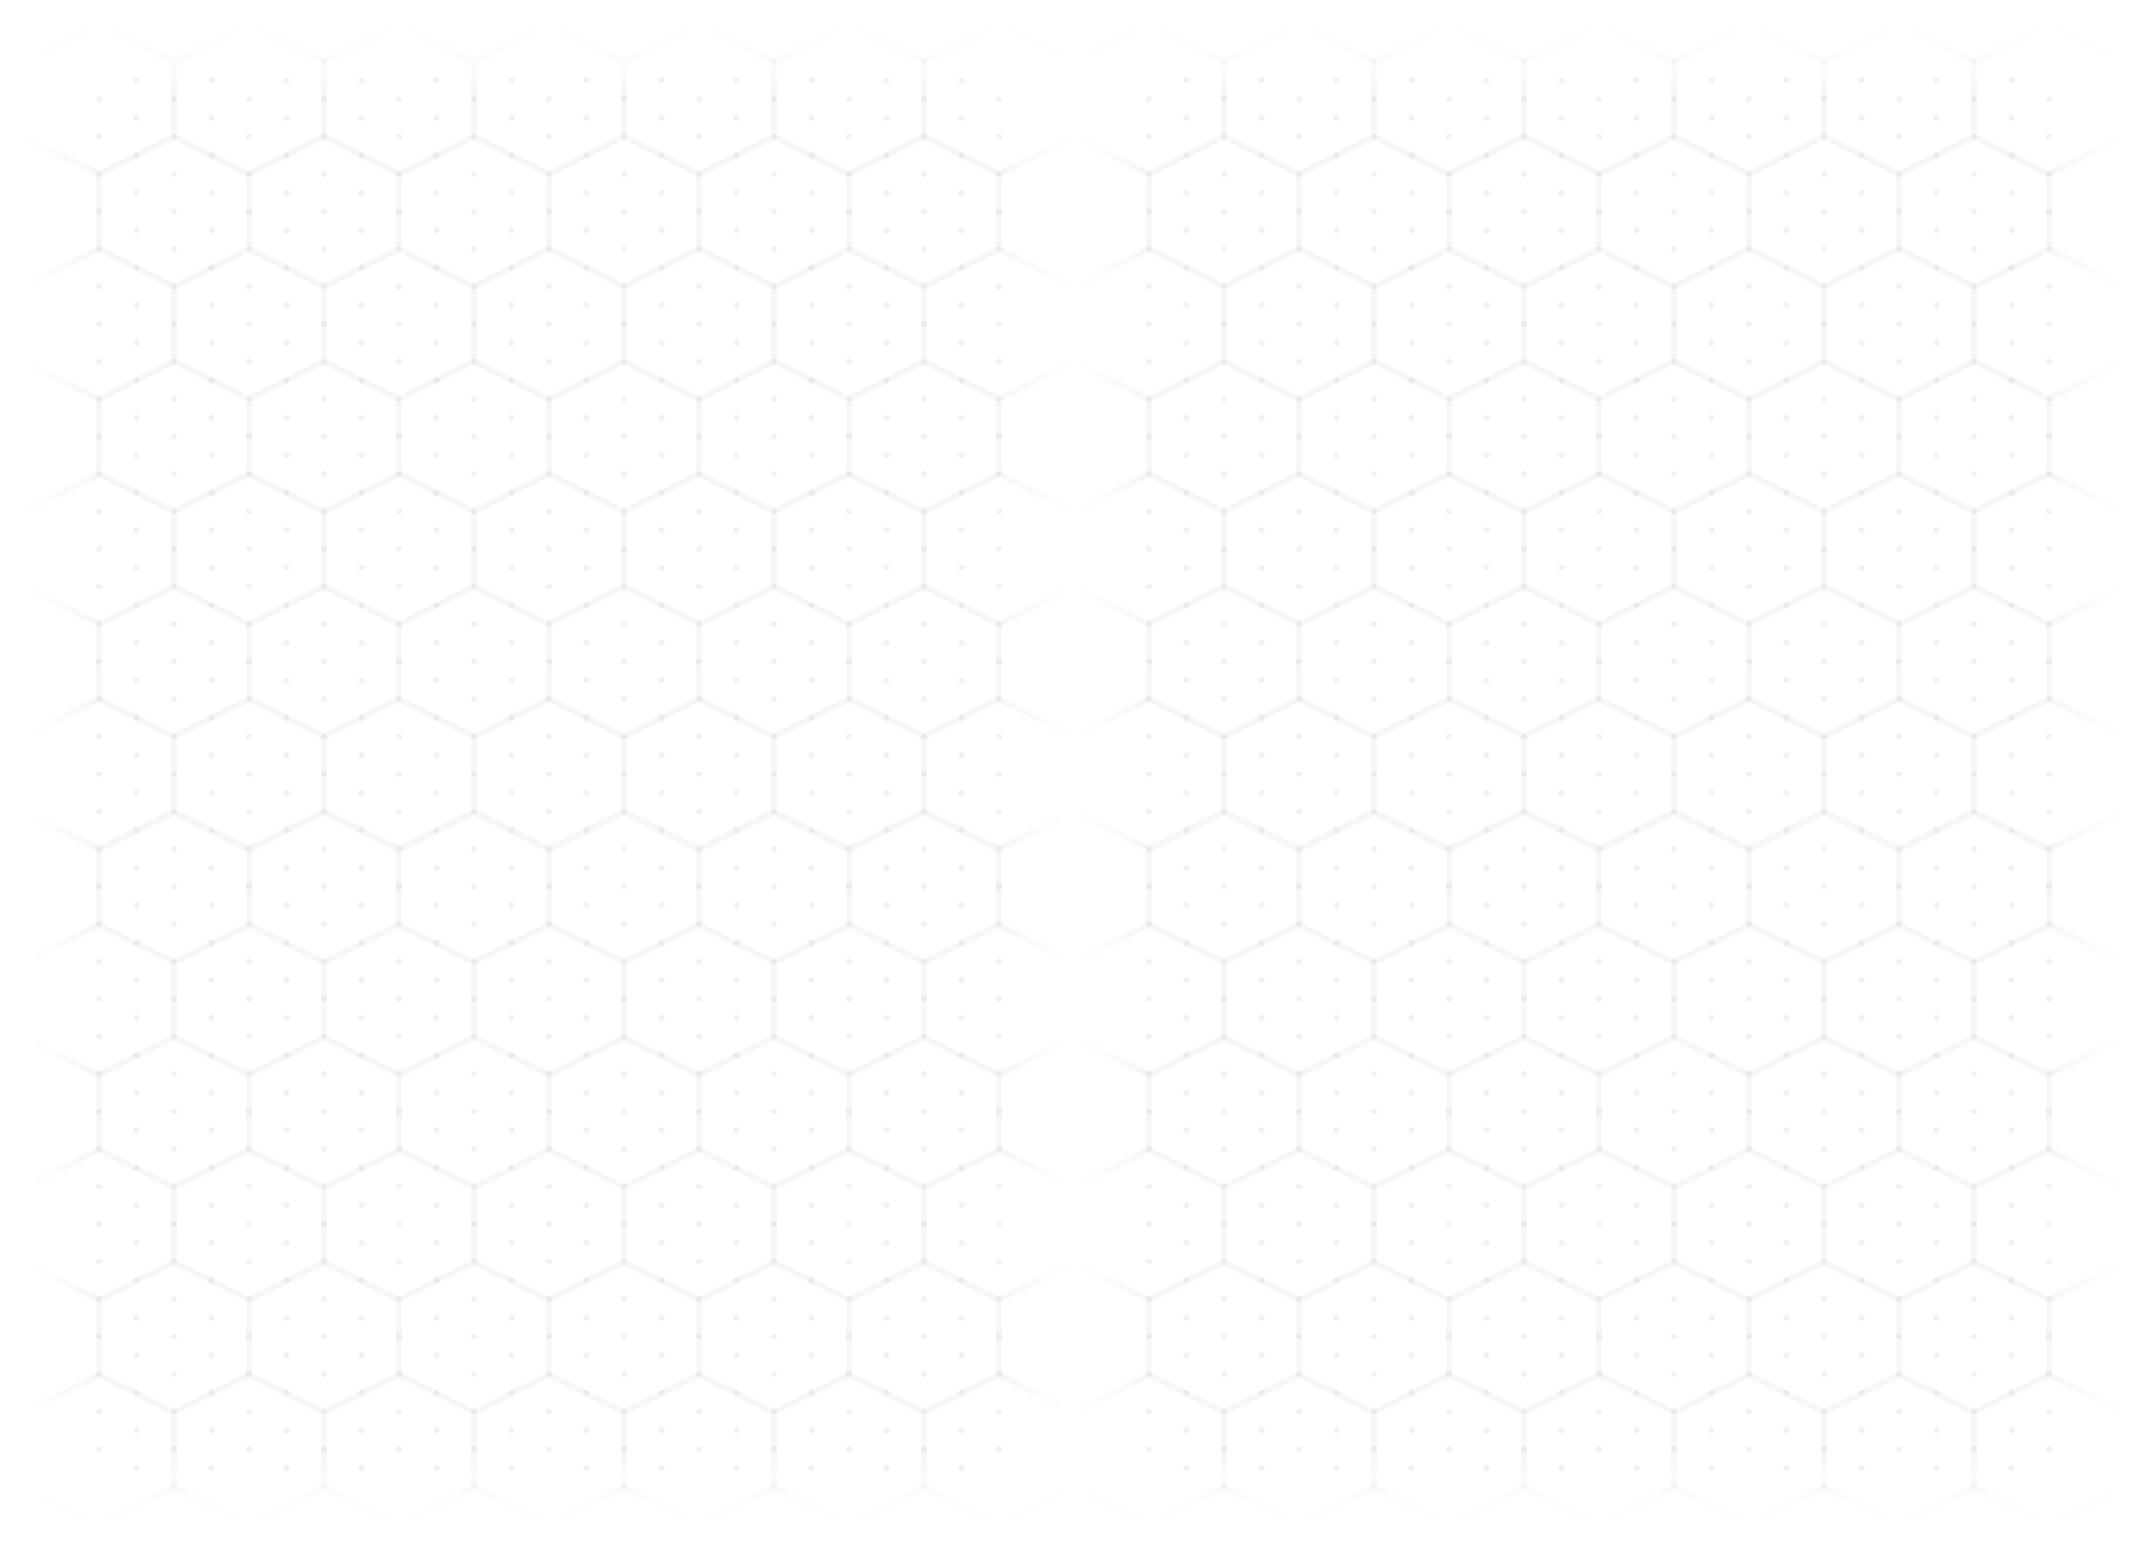
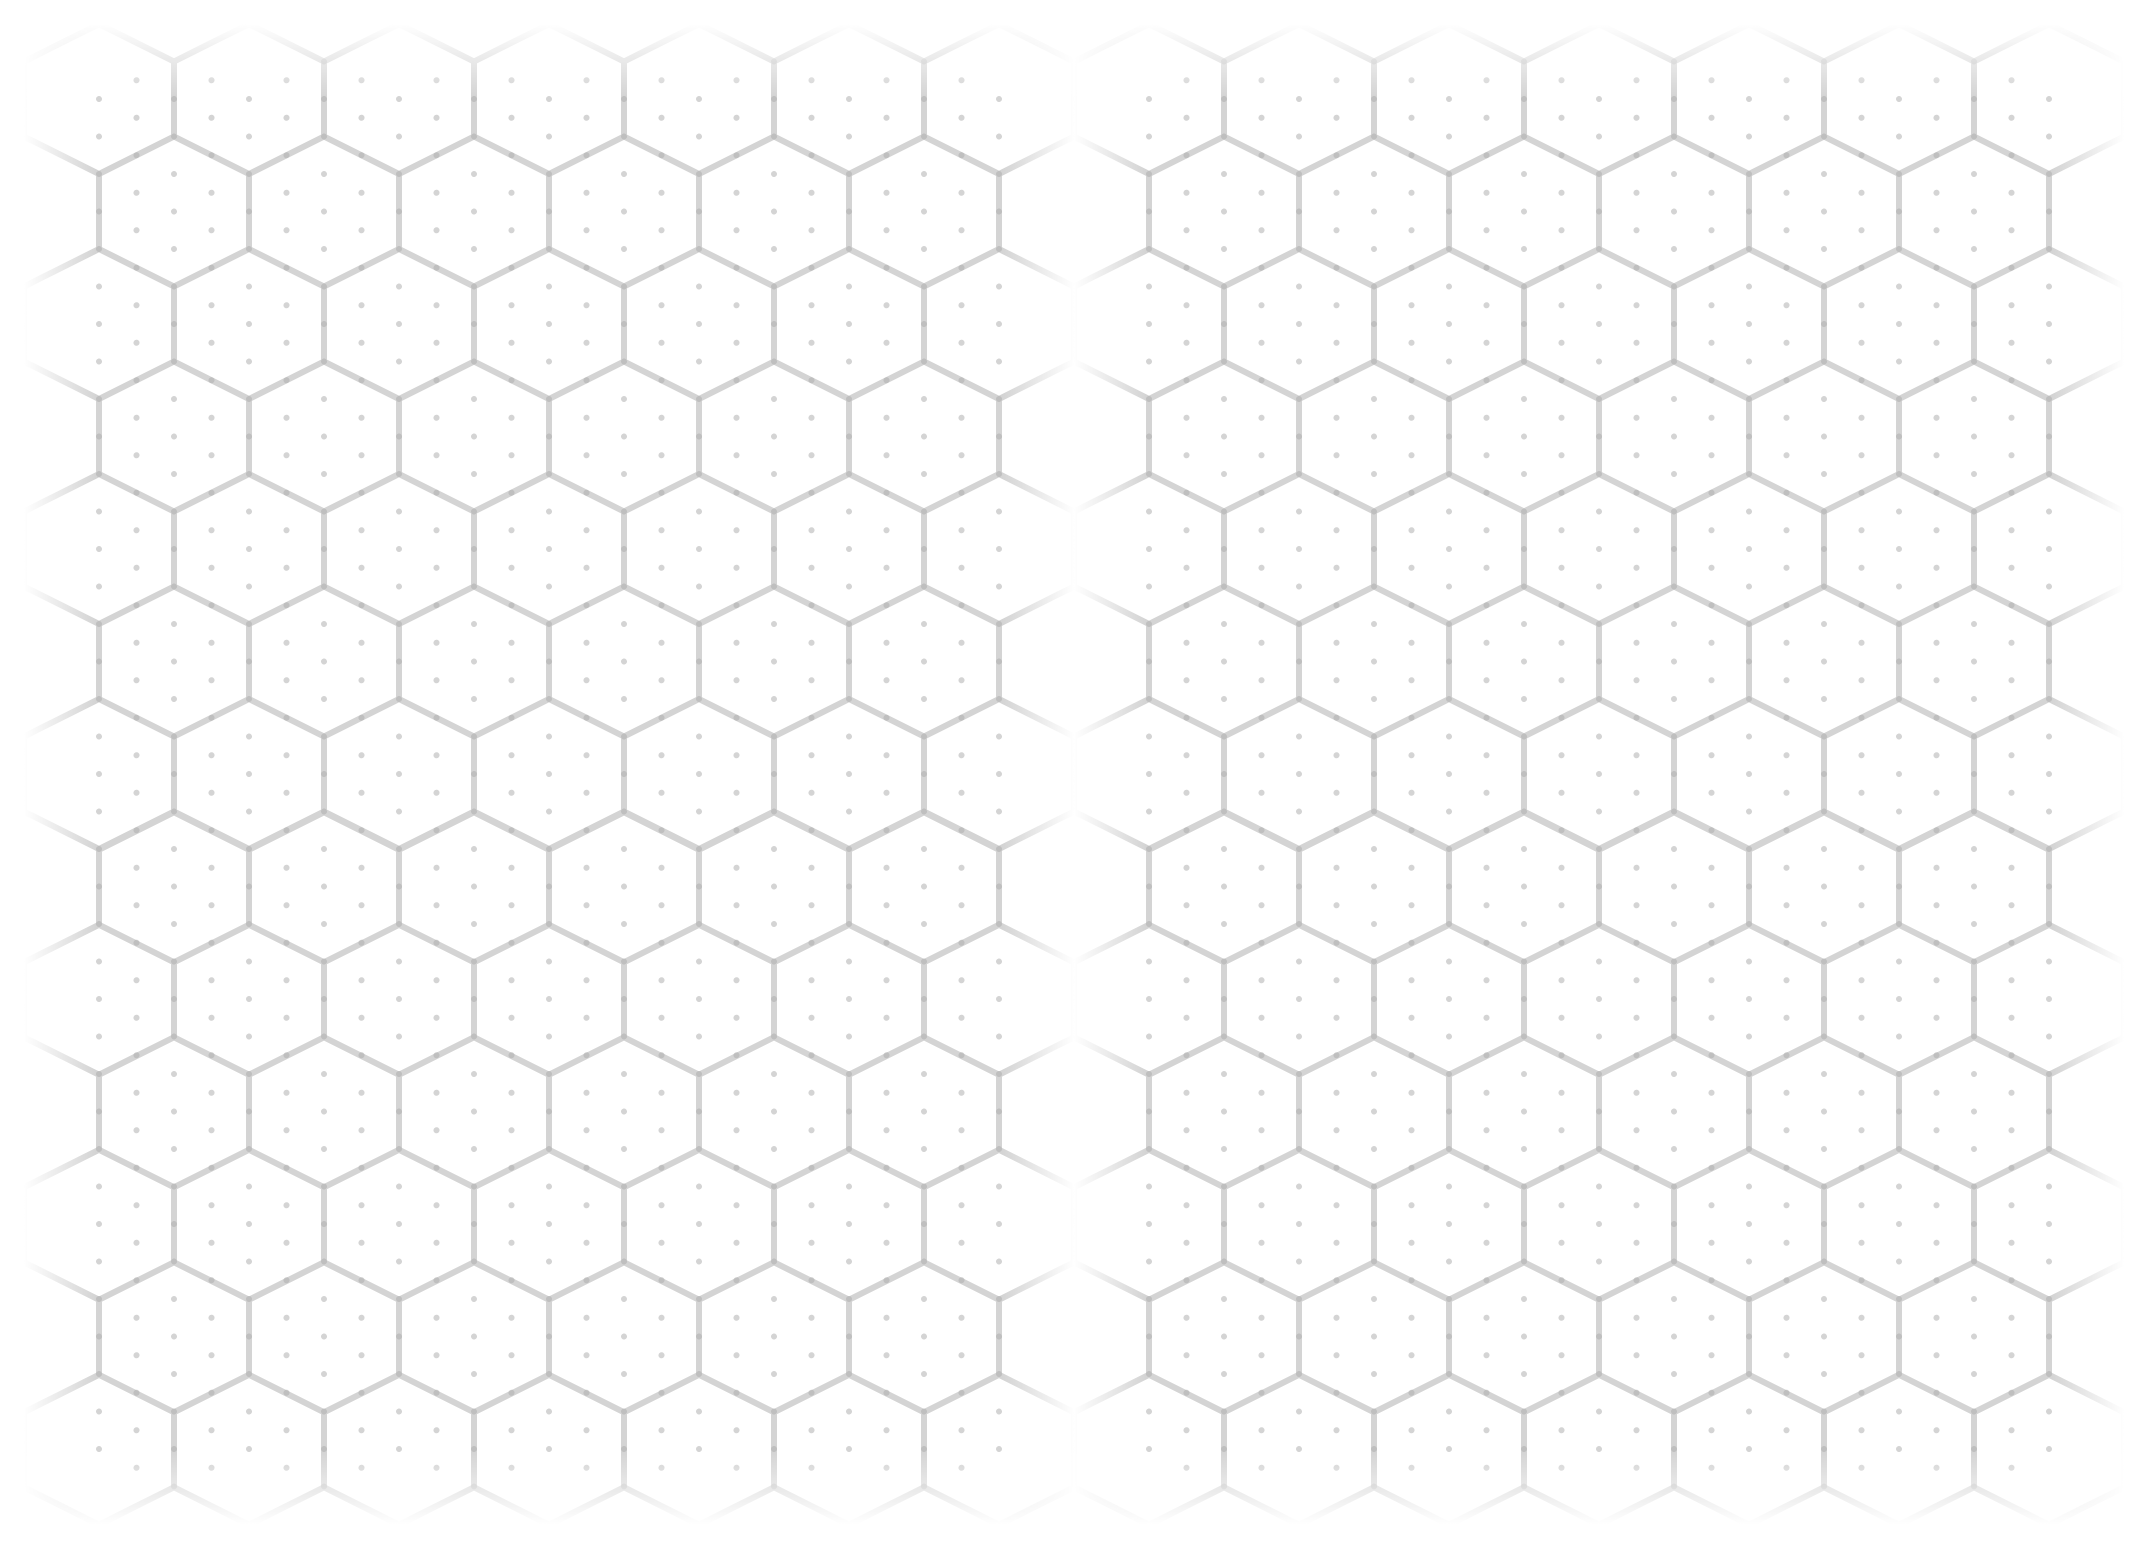
Fixing templates and docs

diff --git a/index.html b/index.html
@@ -2625,6 +2625,13 @@
                 }
                 ctx.putImageData(imageData, offsetX, offsetY);
             }
+            function rgba(r, g, b, a, backgroundR = 255, backgroundG = 255, backgroundB = 255) {
+                return {
+                    r: Math.round((1 - a) * backgroundR + a * r),
+                    g: Math.round((1 - a) * backgroundG + a * g),
+                    b: Math.round((1 - a) * backgroundB + a * b)
+                };
+            }
             function opacityPixels() {
                 const opacity = parseFloat(getLocalStorageOpacity());
                 if (opacity === 1) {
@@ -2639,10 +2646,12 @@
                 const pixels = imageData.data;
                 for (let i = 0; i < pixels.length; i += 4) {
                     if (pixels[i] === 255 && pixels[i + 1] === 255 && pixels[i + 2] === 255) {
-                        pixels[i + 3] = 0;
                         continue;
                     }
-                    pixels[i + 3] = pixels[i + 3] * opacity;
+                    const color = rgba(pixels[i], pixels[i + 1], pixels[i + 2], opacity);
+                    pixels[i] = color.r;
+                    pixels[i + 1] = color.g;
+                    pixels[i + 2] = color.b;
                 }
                 ctx.putImageData(imageData, offsetX, offsetY);
             }

diff --git a/README.md b/README.md
@@ -37,6 +37,19 @@ For templates with dynamic text use the export accessible from the dropdown to g
 
 All built-in templates are stored in black and white. Templates must have a base color of hex #AAA or RGB 170, 170, 170.
 
+## Detail / Inner Page Opacity
+
+- 75% Opacity
+  - Text
+  - Checkbox Squares
+- 50% Opacity
+  - Dots / Lines
+  - Drawing guidance lines
+- 25% Opacity
+  - Secondary drawing guidance lines
+  - Symbols or Info Boxes
+  - Watermarks
+
 ### Tint
 
 Use the tint feature to shift the color profile to the newly selected color.
@@ -64,3 +77,26 @@ To develop, use node to or any service to startup a local http server.
 ```bash
 npx http-server
 ```
+
+## Specific Paper
+
+What paper should I use? To make this easy I'll simply say [Field Notes](https://fieldnotesbrand.com/) knows more about paper than I'll ever be able to explain. As someone that owns hundreds of their notebooks I'll recommend doing the same and decide which is your favorite that way. The specification tab or the back of the notebook will list the paper used.
+
+While the official supplier may not ship to an individual you can usually find it through a larger seller. Not all paper comes in letter size unfortantly, so if you don't have a paper cutter it might not be an option.
+
+### Cover
+
+[Packing Brown Wrap Cardstock (Dur-O-Tone, Cover Weight)](https://www.frenchpaper.com/products/packing-brown-wrap-cardstock-dur-o-tone-cover?variant=39835421245619)
+> If you like [Field Notes](https://fieldnotesbrand.com/products/original-kraft) this is the same paper. This is not the same as craft paper and will print in a inkjet printer!
+
+### Inner
+
+There are two types of paper you'll be looking at.
+- Text - This is your standard copy paper.
+- Writing - This paper has a bit more texture, but is difficult to find as it usually comes in non-letter sized and has to be cut down.
+
+[Smooth, 96 Bright White Paper (Finch Opaque Digital, Text Weight)](https://www.frenchpaper.com/products/smooth-96-white-paper-finch-opaque-digital-text-weight)
+> This is almost always sold out, but is also what [Field Notes](https://fieldnotesbrand.com/products/original-kraft) uses.
+
+HP Paper - BrightWhite 24 lb 100 Bright
+> You want 96 or 100 Bright White at 24 lb or 60 lb text.
